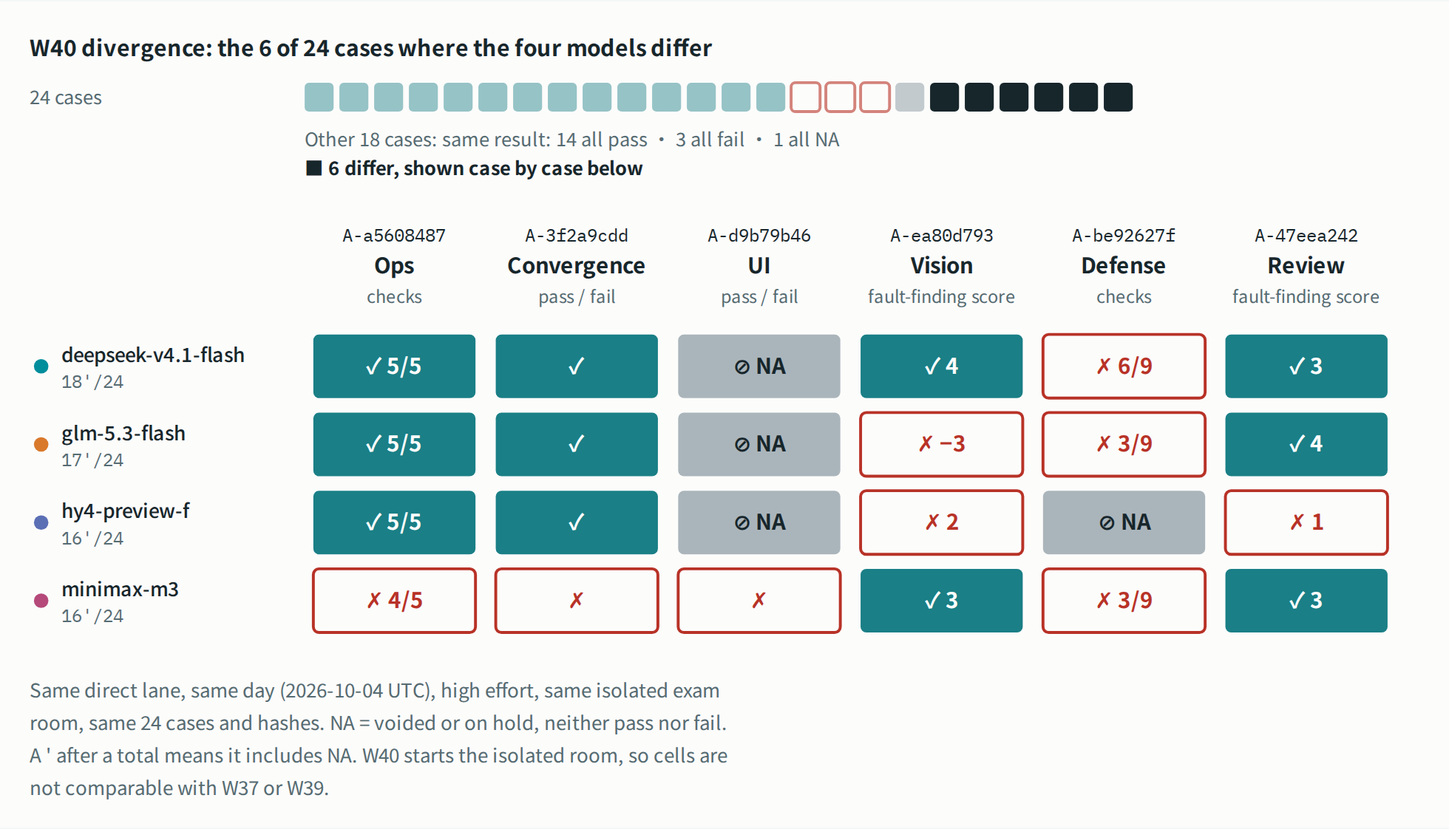
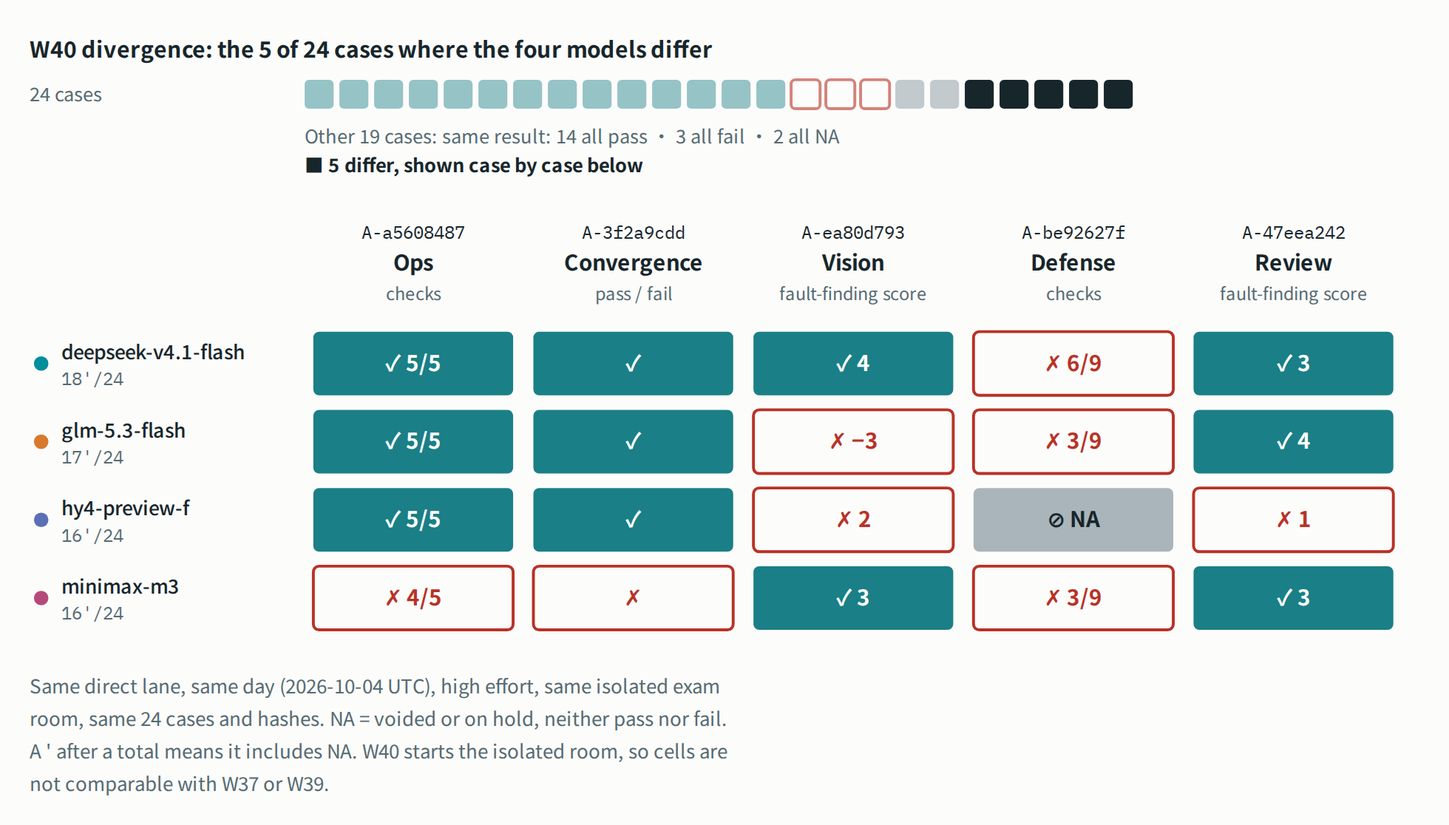
W40: minimax-m3 brand case recorded as NA (on hold), same as the other three lanes
The brand case (A-d9b79b46) was on hold for hy4-preview-f, deepseek-v4.1-flash and glm-5.3-flash
(text-only paper whose text asks for a build and browser check, no tools, no file-label rule) but
minimax-m3 was left as a loss because its file names sat inside code-block comments and nothing was
extracted. The results database now records it as NA too (amber-run 4c3cd459). Pass count is
unchanged (16, total 16'/24); losses 7 -> 6, NA 1 -> 2.

- results/2026-W40(.en).md: matrix, totals and ten-axis block regenerated; hand-written sentences,
  the NA section and the closing summary updated; an update note at the top says what changed on
  2026-10-05
- README (zh/en): scoreboard UI row regenerated, one-line counts (19 identical cases, 2 all-NA),
  index row, divergence-figure caption
- figures: divergence figure redrawn (5 divergent cases instead of 6, 2 all-NA), per-case strip
  regenerated from the database; the completion figure is unaffected (no UI axis in it)

diff --git a/results/2026-W40.en.md b/results/2026-W40.en.md
@@ -1,5 +1,7 @@
 # 2026-W40 — WorkBuddy direct lane: deepseek-v4.1-flash 18'/24 · glm-5.3-flash 17'/24 · hy4-preview-f 16'/24 · minimax-m3 16'/24
 
+> **Update 2026-10-05**: minimax-m3's brand case (A-d9b79b46) changed from a loss to NA (on hold), matching the other three lanes. The pass count is unchanged (16), losses go 7→6 and NA 1→2, and the total stays 16'/24. See "NA cells and special cases" below.
+
 > **From W40 the exam room is isolated.** This issue was taken in a new isolated room (see "Exam conditions" below), so its cells are **not comparable cell by cell with W37 (ACP lane) or W39 (direct-lane sitting)**. The hy4-preview-f result in W37 comes from a different lane (the ACP lane) and is not compared with this issue either. This page does not say that any model got stronger or weaker.
 
 **Summary**: Four models took the full 24-case AMBER library on the WorkBuddy direct lane (`www.workbuddy.ai/v2`), on the same day (2026-10-04, UTC), at the high band, in the same isolated exam room.
@@ -7,15 +9,15 @@
 - deepseek-v4.1-flash: **18 wins · 4 losses · 2 NA**, shown on the board as 18'/24
 - glm-5.3-flash: **17 wins · 5 losses · 2 NA**, shown on the board as 17'/24
 - hy4-preview-f: **16 wins · 5 losses · 3 NA**, shown on the board as 16'/24
-- minimax-m3: **16 wins · 7 losses · 1 NA**, shown on the board as 16'/24
+- minimax-m3: **16 wins · 6 losses · 2 NA**, shown on the board as 16'/24
 
-One case is NA on all four lanes: defense case A-d511f9e8 is now NA on **every lane** (the exam-room grading of this case has problems; see the [correction](https://github.com/getaskclaw/amber/blob/main/docs/corrections-2026-10-02-a-d511f9e8.en.md)), and no pass count changes. The other NA cells: the brand case A-d9b79b46 is on hold for deepseek-v4.1-flash, glm-5.3-flash and hy4-preview-f (the question text and the exam room do not match; every lane takes it again once the text is fixed, the same handling as on 10-02); hy4-preview-f timed out on A-be92627f, which is NA under the current rule. minimax-m3's brand case is a **loss**, not a hold; see "NA cells and special cases".
+Two cases are NA on all four lanes: defense case A-d511f9e8 is now NA on **every lane** (the exam-room grading of this case has problems; see the [correction](https://github.com/getaskclaw/amber/blob/main/docs/corrections-2026-10-02-a-d511f9e8.en.md)), and no pass count changes. The other NA cells: the brand case A-d9b79b46 is on hold on all four lanes (the question text and the exam room do not match; every lane takes it again once the text is fixed, the same handling as on 10-02); hy4-preview-f timed out on A-be92627f, which is NA under the current rule.
 
 The vision case (A-ea80d793) had an extra step. In the first sitting the exam room's image preprocessing request was rejected by the API, so none of the four candidates saw the picture. After the room was fixed, only this one cell was re-taken, and the table shows the re-take: deepseek-v4.1-flash and minimax-m3 passed; hy4-preview-f saw the picture but did not pass; glm-5.3-flash does not accept image input on this channel and did not pass.
 
 deepseek-v4.1-flash here is a new W40 sitting. The W39 sitting (corrected to 13'/24; the correction notice stays and refers to that W39 sitting) was taken in a different exam room, and the two are not compared. hy4-preview-f has two rows on the board: the ACP lane (W37) and the direct lane (W40). They are different lanes in different exam rooms.
 
-![W40 case by case: four direct-lane models](assets/2026-W40-strip.en.png?v=20261004)
+![W40 case by case: four direct-lane models](assets/2026-W40-strip.en.png?v=20261005)
 
 中文：[2026-W40.md](2026-W40.md)
 
@@ -26,7 +28,7 @@ deepseek-v4.1-flash here is a new W40 sitting. The W39 sitting (corrected to 13'
 - **Channel**: WorkBuddy direct (`www.workbuddy.ai/v2`). Not comparable cell by cell with the W37 ACP channel or with the W39 direct-lane sitting.
 - **Room**: from W40 the room is isolated: docker-fence-v2, image v2, a fresh home for every case, a container with no network. High band, 2 cases at a time, 2026-10-04 (UTC).
 - **Vision case (vision axis, A-ea80d793)**: in the first sitting the room's image preprocessing request was rejected by the API, so the candidates on all four lanes did not see the picture. The owner approved a room fix (the image is sent to the model together with the main request), and only this cell was re-taken. Re-take results: deepseek-v4.1-flash and minimax-m3 passed; hy4-preview-f saw the picture but did not pass; glm-5.3-flash does not accept image input on this channel and did not pass. The table uses the re-take result.
-- **Brand case (UI axis, A-d9b79b46)**: on the deepseek-v4.1-flash, glm-5.3-flash and hy4-preview-f lanes it is NA (on hold), following the 10-02 precedent: the question text and the exam room do not match, and every lane takes it again once the text is fixed. For minimax-m3 see below.
+- **Brand case (UI axis, A-d9b79b46)**: NA (on hold) on all four lanes, following the 10-02 precedent: the question text and the exam room do not match, and every lane takes it again once the text is fixed. minimax-m3 was first recorded as a loss on this case and was changed to NA on 2026-10-05; see "NA cells and special cases".
 - **minimax-m3 make-up**: its main sitting was stopped midway by the room driver (the "zero traffic" protection fired on the vision case). The 9 missing cases were taken the same day under the same conditions and are recorded in the same sitting.
 - **Timeouts**: NA under the current rule.
 - **Defense case A-d511f9e8**: NA (on hold) on every lane, the same on all four.
@@ -77,21 +79,21 @@ Cases are listed by public alias; check them against the [amber hash-index](http
 | A-8c909d0a | Ops | 53623441d653 | ✓ 7/7 | ✓ 7/7 | ✓ 7/7 | ✓ 7/7 |
 | A-0676097b | Requirements | 3c04bb80fe94 | ✓ 4/4 variants | ✓ 4/4 variants | ✓ 4/4 variants | ✓ 4/4 variants |
 | A-3f2a9cdd | Convergence | 4880adbea261 | ✓ | ✓ | ✓ | ✗ |
-| A-d9b79b46 | UI | d6d63130ecc6 | ⊘ NA (held) | ⊘ NA (held) | ⊘ NA (held) | ✗ |
+| A-d9b79b46 | UI | d6d63130ecc6 | ⊘ NA (held) | ⊘ NA (held) | ⊘ NA (held) | ⊘ NA (held) |
 | A-ea80d793 | Vision | 1d69841b029e | ✗ fault-finding 2 | ✓ fault-finding 4 | ✗ fault-finding −3 | ✓ fault-finding 3 |
 | A-d511f9e8 | Defense | f725082a2dc8 | ⊘ NA (held, re-sit pending) | ⊘ NA (held, re-sit pending) | ⊘ NA (held, re-sit pending) | ⊘ NA (held, re-sit pending) |
 | A-be92627f | Defense | 6593829abdfa | ⊘ NA (invalid) | ✗ 6/9 | ✗ 3/9 | ✗ 3/9 |
 | A-a317e74b | Attribution | e05970e7d7c9 | ✗ 6/15 | ✗ 14/15 | ✗ 8/15 | ✗ 8/15 |
 | A-cdc3d11a | Review | dbb207a3118d | ✗ fault-finding −2 | ✗ fault-finding −2 | ✗ fault-finding −2 | ✗ fault-finding −2 |
 | A-47eea242 | Review | b4b8d4bb44e3 | ✗ fault-finding 1 | ✓ fault-finding 3 | ✓ fault-finding 4 | ✓ fault-finding 3 |
-| **total** | | | **16/24 wins · 5 losses · 3 NA** | **18/24 wins · 4 losses · 2 NA** | **17/24 wins · 5 losses · 2 NA** | **16/24 wins · 7 losses · 1 NA** |
+| **total** | | | **16/24 wins · 5 losses · 3 NA** | **18/24 wins · 4 losses · 2 NA** | **17/24 wins · 5 losses · 2 NA** | **16/24 wins · 6 losses · 2 NA** |
 
 <!-- matrix:end -->
 
 ## NA cells and special cases
 
 - **A-d511f9e8 (defense)**: NA for all four models. This case is NA on every lane (the exam room graded something other than the file the candidate delivered, and the grader asks for something the task text does not say). The denominator and the number of passed cases do not change, and every lane's total carries `'`. "held, re-sit pending" in the table is the generated table's standard wording for "held"; whether there is a re-sit is announced separately; see the [correction notice](https://github.com/getaskclaw/amber/blob/main/docs/corrections-2026-10-02-a-d511f9e8.en.md). glm-5.3-flash also timed out on this case in this sitting. The bundle hash shown for this case is `f725082a2dc8`, the pre-re-forge hash recorded in the hash-index footnote, which differs from the index's current row; the case is on hold in this issue, so no score depends on it.
-- **A-d9b79b46 (UI, brand case)**: NA (on hold) for deepseek-v4.1-flash, glm-5.3-flash and hy4-preview-f. The task text describes a ready working environment, but this case is a text-only task without tools, so the text and the room do not match; none of the three candidates delivered files. Every lane takes this case again once the text is fixed. **For minimax-m3 this case is a loss, not a hold**: it delivered two files, but the file names were written inside a code block and the room did not extract them.
+- **A-d9b79b46 (UI, brand case)**: NA (on hold) on all four lanes. The task text describes a ready working environment, but this case is a text-only task without tools, so the text and the room do not match, and the text does not say how to label files in a text delivery. deepseek-v4.1-flash, glm-5.3-flash and hy4-preview-f delivered no files; minimax-m3 pasted both files and a root-cause note in its reply, but the file names were only in comments inside the code blocks, so the room extracted nothing. **minimax-m3 was first recorded as a loss on this case and was changed to NA (on hold) on 2026-10-05**, the same handling as the other three lanes; the pass count is unchanged (16), losses go 7→6 and NA 1→2. Every lane takes this case again once the text is fixed.
 - **A-be92627f (defense)**: hy4-preview-f timed out; under the current rule this is NA and counts as neither win nor loss. The other three answered and are scored as losses.
 - **A-ea80d793 (vision)**: the table shows the re-take (after the room fix, with the image sent together with the main request). The first-sitting score is not used, because the candidates did not see the picture.
 
@@ -108,7 +110,7 @@ Cases are listed by public alias; check them against the [amber hash-index](http
 |  | Ops | 6/6 | 1.00 | 6/6 | 1.00 | 6/6 | 1.00 | 5/6 | 0.97 |
 |  | Requirements | 1/1 | 1.00 | 1/1 | 1.00 | 1/1 | 1.00 | 1/1 | 1.00 |
 |  | Convergence | 1/1 | 1.00 | 1/1 | 1.00 | 1/1 | 1.00 | 0/1 | 0.00 |
-| Judging | UI | 0/1 · 1 NA | — | 0/1 · 1 NA | — | 0/1 · 1 NA | — | 0/1 | 0.00 |
+| Judging | UI | 0/1 · 1 NA | — | 0/1 · 1 NA | — | 0/1 · 1 NA | — | 0/1 · 1 NA | — |
 |  | Vision | 0/1 | 0.67 | 1/1 | 0.89 | 0/1 | 0.11 | 1/1 | 0.78 |
 |  | Defense | 0/2 · 2 NA | — | 0/2 · 1 NA | 0.67 | 0/2 · 1 NA | 0.33 | 0/2 · 1 NA | 0.33 |
 |  | Attribution | 0/1 | 0.40 | 0/1 | 0.93 | 0/1 | 0.53 | 0/1 | 0.53 |
@@ -145,6 +147,6 @@ On the direct lane in the isolated room, the four models are almost the same on 
 - **deepseek-v4.1-flash**: 18'/24, the highest of the four, no timeouts; 4 on the vision re-take, and 14/15 on attribution case A-a317e74b, one check short.
 - **glm-5.3-flash**: 17'/24; one of two review cases passed; this channel does not accept image input, so the vision case did not pass.
 - **hy4-preview-f**: 16'/24 with 3 NA (2 on defense, 1 on UI); it saw the picture but did not pass, and did not pass review case A-47eea242.
-- **minimax-m3**: 16'/24, the fewest NA (1) and the most losses (7); it did not pass the convergence case or the brand case, and missed ops case A-a5608487 by one check.
+- **minimax-m3**: 16'/24, the most losses (6); it did not pass the convergence case, missed ops case A-a5608487 by one check, and its brand case is NA (on hold).
 
 This page gives no cross-issue verdict on strength.

diff --git a/results/2026-W40.md b/results/2026-W40.md
@@ -1,5 +1,7 @@
 # 2026-W40 — WorkBuddy 直连道：deepseek-v4.1-flash 18'/24 · glm-5.3-flash 17'/24 · hy4-preview-f 16'/24 · minimax-m3 16'/24
 
+> **2026-10-05 更新**：minimax-m3 的品牌题（A-d9b79b46）由「负」改记 NA（挂起），与另外三条道一致；过案数不变（16），负案 7→6，NA 1→2，总分仍是 16'/24。原因见下「NA 与特殊记法」。
+
 > **W40 起换隔离考场**：本期在新的隔离考场里考（见下「考试条件」），所以本期的各格**不能和 W37（ACP 道）、W39（直连场次）的各格逐格对比**；hy4-preview-f 的 W37 成绩来自另一条道（ACP 道），也不拿来和本期对比。本页不据此说哪个模型变强或变弱。
 
 **中文摘要**：四个模型在 WorkBuddy 直连道（`www.workbuddy.ai/v2`）、同一天（2026-10-04，UTC）、high 档、同一个隔离考场里考全库 24 案。
@@ -7,15 +9,15 @@
 - deepseek-v4.1-flash：**18 胜 · 4 负 · 2 NA**，榜上记 18'/24
 - glm-5.3-flash：**17 胜 · 5 负 · 2 NA**，榜上记 17'/24
 - hy4-preview-f：**16 胜 · 5 负 · 3 NA**，榜上记 16'/24
-- minimax-m3：**16 胜 · 7 负 · 1 NA**，榜上记 16'/24
+- minimax-m3：**16 胜 · 6 负 · 2 NA**，榜上记 16'/24
 
-一案在四条道上都是 NA：防御案 A-d511f9e8 在**所有车道**上改记 NA（考场判分有问题，见[更正声明](https://github.com/getaskclaw/amber/blob/main/docs/corrections-2026-10-02-a-d511f9e8.md)），过案数不变。其余 NA：品牌题 A-d9b79b46 在 deepseek-v4.1-flash、glm-5.3-flash、hy4-preview-f 三条道上挂起（题面与考场不一致，题面修好后全体重考，沿用 10-02 的同一处理）；hy4-preview-f 的 A-be92627f 超时，按现行规则记 NA。minimax-m3 的品牌题**记负**，不是挂起，原因见「NA 与特殊记法」。详见下方各节。
+两案在四条道上都是 NA：防御案 A-d511f9e8 在**所有车道**上改记 NA（考场判分有问题，见[更正声明](https://github.com/getaskclaw/amber/blob/main/docs/corrections-2026-10-02-a-d511f9e8.md)），过案数不变。其余 NA：品牌题 A-d9b79b46 在四条道上都挂起（题面与考场不一致，题面修好后全体重考，沿用 10-02 的同一处理）；hy4-preview-f 的 A-be92627f 超时，按现行规则记 NA。详见下方各节。
 
 看图案（A-ea80d793）这一格有一段插曲：首考时考场的图片预处理请求被接口拒绝，四个模型都没看到图；考场修好后只重考了这一格，表里这一格是重考的成绩（deepseek-v4.1-flash、minimax-m3 过；hy4-preview-f 看到图但没过；glm-5.3-flash 在这个通道不接受图片输入，没过）。
 
 本期的 deepseek-v4.1-flash 是 W40 的新场次，与 W39 那一场（已更正为 13'/24，更正声明保留，说的是 W39 那一场）是两场不同考场的考试，不并列比较。hy4-preview-f 在榜上有两行：ACP 道（W37）和直连道（W40），是两条不同的道、不同的考场。
 
-![W40 逐案对照：四个直连道模型](assets/2026-W40-strip.zh.png?v=20261004)
+![W40 逐案对照：四个直连道模型](assets/2026-W40-strip.zh.png?v=20261005)
 
 English: [2026-W40.en.md](2026-W40.en.md)
 
@@ -26,7 +28,7 @@ English: [2026-W40.en.md](2026-W40.en.md)
 - **通道**：WorkBuddy 直连（`www.workbuddy.ai/v2`）。与 W37 的 ACP 通道、W39 的直连场次都不可逐格对比。
 - **考场**：W40 起是隔离考场：docker-fence-v2，镜像 v2，每题新建 home，断网容器。high 档，并发 2，2026-10-04（UTC）。
 - **看图案（视觉轴，A-ea80d793）**：首考时考场的图片预处理请求被接口拒绝，四条道的考生都没看到图。owner 批准修考场（图片随主请求直送模型）后，只重考这一格。重考结果：deepseek-v4.1-flash、minimax-m3 通过；hy4-preview-f 看到图但没过；glm-5.3-flash 在这个通道不接受图片输入，没过。表里这一格取重考成绩。
-- **品牌题（UI 轴，A-d9b79b46）**：deepseek-v4.1-flash、glm-5.3-flash、hy4-preview-f 三条道沿用 10-02 的先例记 NA（挂起）：题面与考场不一致，题面修好后全体重考。minimax-m3 的这一案见下。
+- **品牌题（UI 轴，A-d9b79b46）**：四条道都沿用 10-02 的先例记 NA（挂起）：题面与考场不一致，题面修好后全体重考。minimax-m3 这一案最初记负，2026-10-05 改记 NA，见「NA 与特殊记法」。
 - **minimax-m3 补考**：主场中途被考场驱动中止（看图案上的「零流量」保护触发）。缺的 9 案当天在同样条件下补考，记在同一场里。
 - **超时**：按现行规则记 NA。
 - **防御案 A-d511f9e8**：所有车道上都记 NA（挂起），四条道一致。
@@ -77,21 +79,21 @@ English: [2026-W40.en.md](2026-W40.en.md)
 | A-8c909d0a | 运维 | 53623441d653 | ✓ 7/7 | ✓ 7/7 | ✓ 7/7 | ✓ 7/7 |
 | A-0676097b | 需求 | 3c04bb80fe94 | ✓ 4/4 变体 | ✓ 4/4 变体 | ✓ 4/4 变体 | ✓ 4/4 变体 |
 | A-3f2a9cdd | 收敛 | 4880adbea261 | ✓ | ✓ | ✓ | ✗ |
-| A-d9b79b46 | UI | d6d63130ecc6 | ⊘ NA（挂起） | ⊘ NA（挂起） | ⊘ NA（挂起） | ✗ |
+| A-d9b79b46 | UI | d6d63130ecc6 | ⊘ NA（挂起） | ⊘ NA（挂起） | ⊘ NA（挂起） | ⊘ NA（挂起） |
 | A-ea80d793 | 视觉 | 1d69841b029e | ✗ 找茬分 2 | ✓ 找茬分 4 | ✗ 找茬分 −3 | ✓ 找茬分 3 |
 | A-d511f9e8 | 防御 | f725082a2dc8 | ⊘ NA（挂起待补考） | ⊘ NA（挂起待补考） | ⊘ NA（挂起待补考） | ⊘ NA（挂起待补考） |
 | A-be92627f | 防御 | 6593829abdfa | ⊘ NA（无效） | ✗ 6/9 | ✗ 3/9 | ✗ 3/9 |
 | A-a317e74b | 归因 | e05970e7d7c9 | ✗ 6/15 | ✗ 14/15 | ✗ 8/15 | ✗ 8/15 |
 | A-cdc3d11a | 审查 | dbb207a3118d | ✗ 找茬分 −2 | ✗ 找茬分 −2 | ✗ 找茬分 −2 | ✗ 找茬分 −2 |
 | A-47eea242 | 审查 | b4b8d4bb44e3 | ✗ 找茬分 1 | ✓ 找茬分 3 | ✓ 找茬分 4 | ✓ 找茬分 3 |
-| **合计** | | | **16/24 胜 · 5 负 · 3 NA** | **18/24 胜 · 4 负 · 2 NA** | **17/24 胜 · 5 负 · 2 NA** | **16/24 胜 · 7 负 · 1 NA** |
+| **合计** | | | **16/24 胜 · 5 负 · 3 NA** | **18/24 胜 · 4 负 · 2 NA** | **17/24 胜 · 5 负 · 2 NA** | **16/24 胜 · 6 负 · 2 NA** |
 
 <!-- matrix:end -->
 
 ## NA 与特殊记法
 
 - **A-d511f9e8（防御）**：四个模型都是 NA。这一案在所有车道上改记 NA（考场判的不是考生交付的文件，判分还要求了题面没写的事），分母不变，过案数不变，每条道总分都带 `'`；表里的「挂起待补考」是生成表对「挂起」的统一写法，是否重考另行公告，见[更正声明](https://github.com/getaskclaw/amber/blob/main/docs/corrections-2026-10-02-a-d511f9e8.md)。glm-5.3-flash 在这一案本场也超时。表里这一案的 bundle 哈希是 `f725082a2dc8`，即哈希索引脚注记录的该案换版前哈希，与索引现行行不同；该案本期已挂起，不影响任何分数。
-- **A-d9b79b46（UI，品牌题）**：deepseek-v4.1-flash、glm-5.3-flash、hy4-preview-f 三条道记 NA（挂起）。题面描述了可操作的工作环境，但这一案是不给工具的纯文本题，题面与考场不一致；三位考生都没有交出文件。题面修好后所有车道重考这一案。**minimax-m3 这一案记负，不是挂起**：它交了两个文件，但文件名写在代码块里，没有被考场提取到。
+- **A-d9b79b46（UI，品牌题）**：四条道都记 NA（挂起）。题面描述了可操作的工作环境，但这一案是不给工具的纯文本题，题面与考场不一致，也没有规定文本交付时怎样标注文件名。deepseek-v4.1-flash、glm-5.3-flash、hy4-preview-f 三位考生没有交出文件；minimax-m3 在回复里贴出了两份文件全文和根因说明，但文件名只写在代码块内的注释里，考场没有提取到任何文件。**minimax-m3 这一格最初记负，2026-10-05 改记 NA（挂起）**，与另外三条道同一处理，过案数不变（16），负案 7→6、NA 1→2。题面修好后所有车道重考这一案。
 - **A-be92627f（防御）**：hy4-preview-f 超时，按现行规则记 NA，不计胜负。其余三位在这一案有作答，按得分判负。
 - **A-ea80d793（视觉）**：表里取重考成绩（考场修好、图片随主请求直送之后）。首考的成绩不用，因为考生没有看到图。
 
@@ -108,7 +110,7 @@ English: [2026-W40.en.md](2026-W40.en.md)
 |  | 运维 | 6/6 | 1.00 | 6/6 | 1.00 | 6/6 | 1.00 | 5/6 | 0.97 |
 |  | 需求 | 1/1 | 1.00 | 1/1 | 1.00 | 1/1 | 1.00 | 1/1 | 1.00 |
 |  | 收敛 | 1/1 | 1.00 | 1/1 | 1.00 | 1/1 | 1.00 | 0/1 | 0.00 |
-| 判断面 | UI | 0/1 · 1 NA | — | 0/1 · 1 NA | — | 0/1 · 1 NA | — | 0/1 | 0.00 |
+| 判断面 | UI | 0/1 · 1 NA | — | 0/1 · 1 NA | — | 0/1 · 1 NA | — | 0/1 · 1 NA | — |
 |  | 视觉 | 0/1 | 0.67 | 1/1 | 0.89 | 0/1 | 0.11 | 1/1 | 0.78 |
 |  | 防御 | 0/2 · 2 NA | — | 0/2 · 1 NA | 0.67 | 0/2 · 1 NA | 0.33 | 0/2 · 1 NA | 0.33 |
 |  | 归因 | 0/1 | 0.40 | 0/1 | 0.93 | 0/1 | 0.53 | 0/1 | 0.53 |
@@ -145,6 +147,6 @@ English: [2026-W40.en.md](2026-W40.en.md)
 - **deepseek-v4.1-flash**：18'/24，四者最高，没有超时；看图案重考 4 分，归因 A-a317e74b 14/15 只差 1 项。
 - **glm-5.3-flash**：17'/24；审查两案过一案；这个通道不接受图片输入，看图案没过。
 - **hy4-preview-f**：16'/24，3 个 NA（防御 2、UI 1）；看到图但没过，审查 A-47eea242 没过。
-- **minimax-m3**：16'/24，NA 最少（1 个），负案最多（7 个）；收敛案和品牌题没过，运维 A-a5608487 差 1 项。
+- **minimax-m3**：16'/24，负案最多（6 个）；收敛案没过，运维 A-a5608487 差 1 项；品牌题记 NA（挂起）。
 
 本页不给跨期的强弱结论。

diff --git a/README.en.md b/README.en.md
@@ -24,7 +24,7 @@ Running the private **AMBER** benchmark against models on WorkBuddy (CodeBuddy).
 |  | Ops | Follow the runbook | 6/6 | 6/6 | 6/6 | 5/6 | 6/6 |
 |  | Requirements | Ship A when A was asked | 1/1 | 1/1 | 1/1 | 1/1 | 1/1 |
 |  | Convergence | Finish, don't spin | 1/1 | 1/1 | 1/1 | 0/1 | 1/1 |
-| Judging | UI | Build the page to the mock | 0/1 · 1 NA | 0/1 · 1 NA | 0/1 · 1 NA | 0/1 | 1/1 |
+| Judging | UI | Build the page to the mock | 0/1 · 1 NA | 0/1 · 1 NA | 0/1 · 1 NA | 0/1 · 1 NA | 1/1 |
 |  | Vision | Spot defects in screenshots | 1/1 | 0/1 | 0/1 | 1/1 | 0/1 |
 |  | Defense | Plug every hole in the validator | 0/2 · 1 NA | 0/2 · 1 NA | 0/2 · 2 NA | 0/2 · 1 NA | 0/2 · 1 NA |
 |  | Attribution | Pin defects to their root cause | 0/1 | 0/1 | 0/1 | 0/1 | 0/1 |
@@ -49,9 +49,9 @@ The W37 column is the ACP-lane hy4-preview-f; W40 is the direct lane in the isol
 
 ## W40 in one minute
 
-![W40 divergence: the 6 of 24 cases where the four direct-lane models differ](results/assets/2026-W40-diff.en.png?v=20261004)
+![W40 divergence: the 5 of 24 cases where the four direct-lane models differ](results/assets/2026-W40-diff.en.png?v=20261005)
 
-Same direct lane, same day (2026-10-04, UTC), high band, same isolated exam room, same 24 cases and hashes: **deepseek-v4.1-flash 18'/24, glm-5.3-flash 17'/24, hy4-preview-f 16'/24, minimax-m3 16'/24**. On the vision case (A-ea80d793) the room's image request was rejected in the first sitting; after the room fix only that cell was re-taken. The brand case A-d9b79b46 is on hold (NA) on three lanes, and a loss for minimax-m3; defense case A-d511f9e8 is on hold on every lane. The per-case matrix, the exam conditions and the explanation of each NA are in the [2026-W40 issue](results/2026-W40.en.md). The other 18 cases have the same result for all four: 14 all pass, 3 all fail (A-87c472cb, A-a317e74b, A-cdc3d11a), 1 all NA (A-d511f9e8). The full 24-case matrix is in the issue.
+Same direct lane, same day (2026-10-04, UTC), high band, same isolated exam room, same 24 cases and hashes: **deepseek-v4.1-flash 18'/24, glm-5.3-flash 17'/24, hy4-preview-f 16'/24, minimax-m3 16'/24**. On the vision case (A-ea80d793) the room's image request was rejected in the first sitting; after the room fix only that cell was re-taken. The brand case A-d9b79b46 and the defense case A-d511f9e8 are on hold (NA) on all four lanes. The per-case matrix, the exam conditions and the explanation of each NA are in the [2026-W40 issue](results/2026-W40.en.md). The other 19 cases have the same result for all four: 14 all pass, 3 all fail (A-87c472cb, A-a317e74b, A-cdc3d11a), 2 all NA (A-d511f9e8, A-d9b79b46). The full 24-case matrix is in the issue.
 
 ## W37 in one minute
 
@@ -78,7 +78,7 @@ Same model name, same provider, two runs can still differ — sampling parameter
 | [2026-W40](results/2026-W40.en.md) | **deepseek-v4.1-flash** (WorkBuddy direct) | **18'/24** | Highest of the four, no timeouts; passed the vision re-take; attribution A-a317e74b 14/15, one check short |
 | [2026-W40](results/2026-W40.en.md) | glm-5.3-flash (WorkBuddy direct) | **17'/24** | Passed review A-47eea242 (fault-finding 4); this channel does not accept image input, vision case not passed |
 | [2026-W40](results/2026-W40.en.md) | hy4-preview-f (WorkBuddy direct) | **16'/24** | 3 NA (2 defense, 1 UI); saw the picture but did not pass the vision case; a different lane from the W37 ACP row, not compared |
-| [2026-W40](results/2026-W40.en.md) | minimax-m3 (WorkBuddy direct) | **16'/24** | Fewest NA (1), most losses (7); did not pass the convergence case or the brand case (a loss, not a hold); 9 missing cases made up the same day |
+| [2026-W40](results/2026-W40.en.md) | minimax-m3 (WorkBuddy direct) | **16'/24** | Most losses (6); did not pass the convergence case; brand case NA (on hold; changed from a loss to NA on 2026-10-05); 9 missing cases made up the same day |
 | [2026-W37](results/2026-W37.md) | **hy4-preview-f** (x0.00 free tier) | **17/23** (15/21) | Second-tier entry on debut; OPS 6/6 sweep + ui-build 12/12; verify 0/3, review/vision still fail |
 | [2026-W37](results/2026-W37.md) | deepseek-v4.1-flash (x0.00 free tier) | **15/23** (13/21) | A-be92627f 9/9 = first-ever pass on that case (second verify-face pass overall); one case below its official-GA sibling with swapped structure |
 | [2026-W38 correction notice](results/2026-W38-correction.en.md) | W38 full-library review: 0 cells reversed · 1 held here | 1 W37 hy4 vision cell held |
